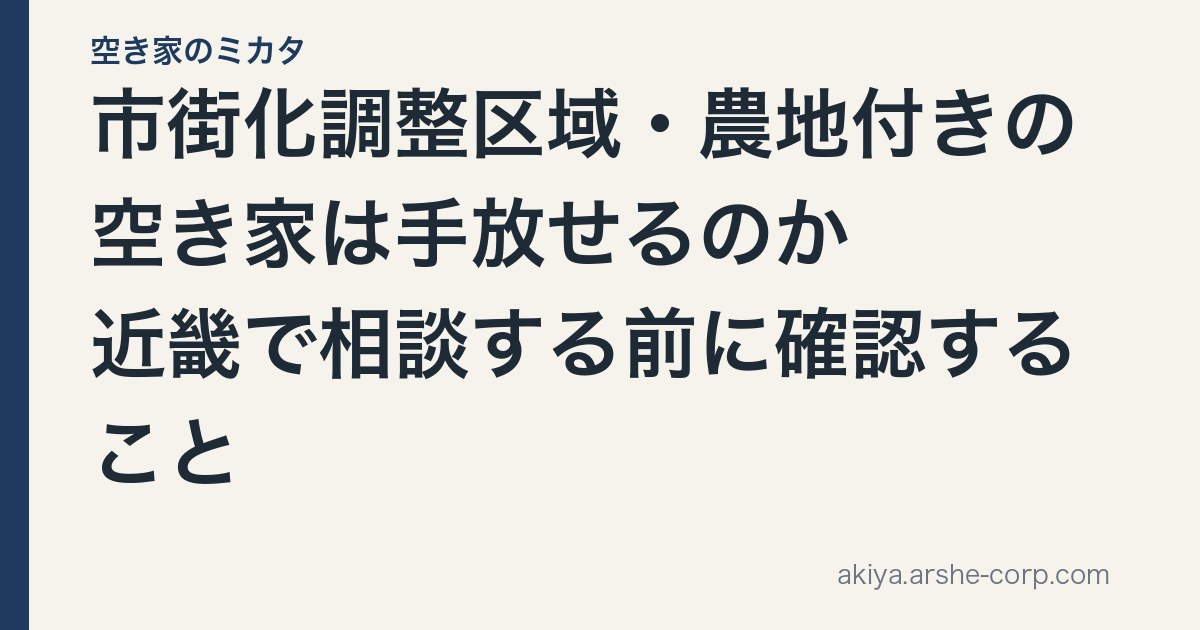
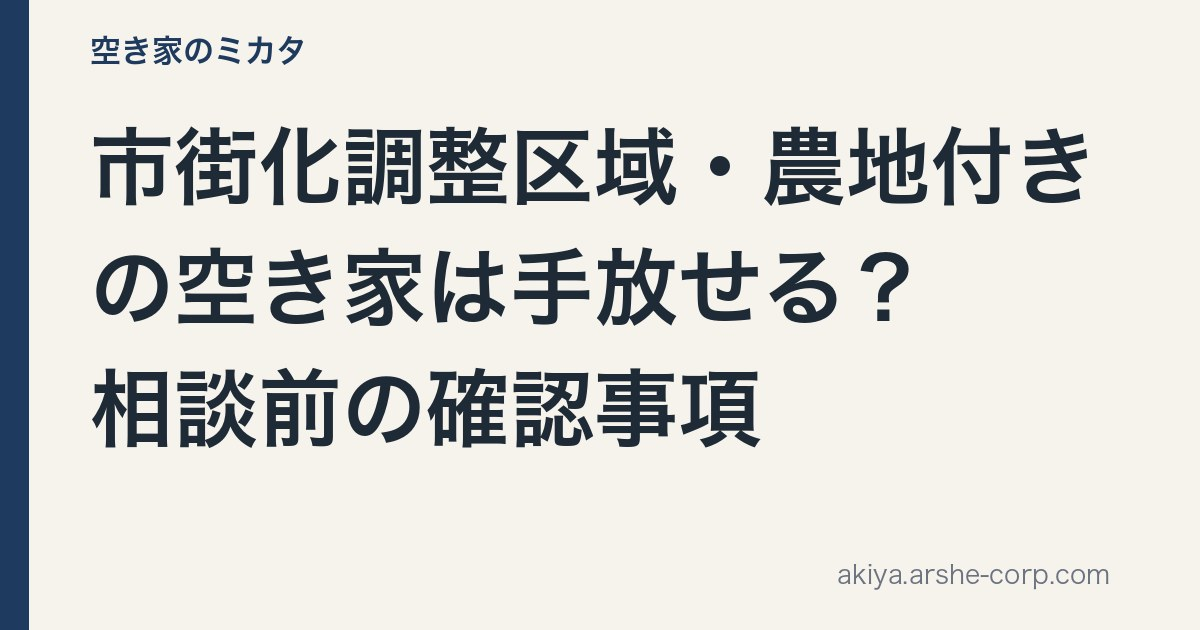
記事校閲: chosei-kuiki-nochi-tsuki-akiya-kaitori（title 31字へ短縮・hero再生成・読者レンズ反映）
- 校閲パネルの上限32字に合わせてtitleを31字へ短縮（テーマ・主語は維持）
- 短縮後のtitleでhero文字カードを作り直す
- 「都道府県知事等」を「都道府県（大阪府なら大阪府）」へ言い換え、窓口が農業委員会であることを表内に明示
- 筆・地目・農用地区域を初出のその場で言い換え、後述の用語まとめを削除
- 冒頭で結論と最初の一歩を先に出す
- 4点が不明でも相談できる旨をFAQ・本文でそろえる

Changed region(s): [[0.0617, 0.1206, 0.925, 0.7841]]

diff --git a/src/content/guide/chosei-kuiki-nochi-tsuki-akiya-kaitori.md b/src/content/guide/chosei-kuiki-nochi-tsuki-akiya-kaitori.md
@@ -1,5 +1,5 @@
 ---
-title: "市街化調整区域・農地付きの空き家は手放せるのか｜近畿で相談する前に確認すること"
+title: "市街化調整区域・農地付きの空き家は手放せる？｜相談前の確認事項"
 description: "実家の敷地に畑が付いている、市街化調整区域にある——この形の空き家は、家と農地で手続きが分かれます。市街化区域なら届出で済む農地の転用が調整区域では許可になる理由、持っているだけでかかる農業委員会の調査と届出義務、建物があるうちは国庫帰属が使えない条文上の理由、相談前に確認する項目を、大阪・和歌山など近畿6府県の宅地建物取引業者がまとめました。"
 publishDate: "2026-09-24"
 author: "空き家のミカタ編集部"
@@ -9,9 +9,9 @@ heroImage: "/images/chosei-kuiki-nochi-tsuki-akiya-kaitori-hero.jpg"
 cluster: "wakeari"
 faqs:
   - question: "市街化調整区域にある農地付きの空き家は、買い取ってもらえますか？"
-    answer: "宅地は売れる可能性が高い一方、調整区域では買い手が限られます。畑は許可しだいで、当社が買えるかは物件を確認してからお答えします。家と畑は1つの取引にまとまらず、農地部分には別の手続きが要ります。農地のまま移すなら農業委員会の許可、農地以外にするなら都道府県知事等の許可です。畑を含めて買う場合、宅地だけ買う場合、農地は別手続きの場合に分けてご案内します。"
+    answer: "調整区域の宅地は、建て替えなどに別の許可が要る場合があり、買い手が限られます。ただし買取のご相談はできます。畑は許可しだいで、当社が買えるかは物件を確認してからお答えします。家と畑は1つの取引にまとまらず、農地部分には別の手続きが要ります。農地のまま移すなら農業委員会の許可、農地以外にするなら都道府県の許可です。畑を含めて買う場合、宅地だけ買う場合、農地は別手続きの場合に分けてご案内します。"
   - question: "宅地と農地で、何がそんなに違うのですか？"
-    answer: "農地には農地法がかかります。特に差が出るのが市街化区域かどうかです。市街化区域内の農地なら、農地以外にする転用は農業委員会への事前の届出で足ります。市街化調整区域の農地にはこの例外がなく、都道府県知事等の許可が必要です。同じ「畑」でも、線引きの内か外かで届出と許可に分かれます。"
+    answer: "農地には農地法がかかります。特に差が出るのが市街化区域かどうかです。市街化区域内の農地なら、農地以外にする転用は農業委員会への事前の届出で足ります。市街化調整区域の農地にはこの例外がなく、都道府県の許可が必要です。同じ「畑」でも、線引きの内か外かで届出と許可に分かれます。"
   - question: "相続した農地を、何もせずに持っているだけでも手続きは要りますか？"
     answer: "要ります。相続などで農地の権利を取得した人は、遅滞なくその農地のある市町村の農業委員会へ届け出る義務があります。届出をしない、または虚偽の届出をした場合は10万円以下の過料です。耕していないから関係ない、という扱いにはなりません。"
   - question: "使っていない畑を放っておくと、どうなりますか？"
@@ -24,13 +24,17 @@ faqs:
 
 「実家を相続したけれど、家の横に畑が付いていた」「市街化調整区域だと言われて、仲介に断られた」「畑は誰も耕していないのに、固定資産税だけ毎年かかる」。
 
-<strong>この形の物件でいちばん多い誤解は、家と畑がひとまとめに売れると思ってしまうことです。</strong>実際には、家の敷地（宅地）と畑（農地）は別々の手続きで動きます。そして畑のほうには、宅地にはない<strong>農地法</strong>という法律がかかります。
+<strong>この形の物件でいちばん多い誤解は、家と畑がひとまとめに売れると思ってしまうことです。</strong>実際には、家の敷地（宅地）と畑（農地）は別々の手続きで動きます。そして畑のほうには、宅地にはない<strong>農地法</strong>（農地の売買や転用を制限する法律）がかかります。
 
-さらに、その畑が市街化調整区域にあるか市街化区域にあるかで、必要な手続きが<strong>「届出」と「許可」に分かれます</strong>。同じ見た目の畑でも、線引きの内と外で扱いが変わります。
+さらに、その畑が市街化調整区域にあるか市街化区域にあるかで、必要な手続きが<strong>「届出」と「許可」に分かれます</strong>。同じ見た目の畑でも、線引き（市街化区域と市街化調整区域の区分）の内と外で扱いが変わります。
 
-<strong>先に結論です。手放す方向は4つあります。</strong>農地のまま貸すか譲る、許可を得て農地以外にする、宅地と合わせて不動産として相談する、家を解体して国に引き取ってもらう、の4つです。家の敷地（宅地）は売れる可能性が高い一方、調整区域では買い手が限られることがあります。当社が買えるかは、物件を確認してからお答えします。
+<strong>先に結論です。手放す方向は4つあります。</strong>農地のまま貸すか譲る、許可を得て農地以外にする、宅地と合わせて不動産として相談する、家を解体して国に引き取ってもらう、の4つです。
 
-どの方向になるかは、畑が何筆（ふで。登記上の土地を数える単位）あるか、登記の地目（土地の種類）が何か、農用地区域に入っているか、今誰かが耕しているかで決まります。国に引き取ってもらう道は、家を解体しても審査に通らないことがあります。
+調整区域の宅地は、建て替えなどに別の許可が要る場合があり、買い手が限られます。ただし買取のご相談はできます。当社が買えるかは、物件を確認してからお答えします。
+
+どの方向になるかは、次の4点で決まります。畑が何筆（ふで。登記上の土地を数える単位）あるか、登記の地目（土地の種類）は何か、農用地区域（農業を守るために指定された区域）に入っているか、今誰かが耕しているかです。国に引き取ってもらう道は、家を解体しても審査に通らないことがあります。
+
+<strong>最初の一歩は、市町村の農業委員会（農地の窓口）か当社に、筆数・地目・耕作の状況を伝えることです。</strong>農業委員会に相談すれば、必要な許可の窓口も教えてもらえます。
 
 この記事では、市街化調整区域・農地付きの空き家について、宅地と何が違うのか、持っているだけで何が発生するのか、誰に相談すればよいのかを整理しました。条文番号は末尾の出典欄にまとめています。大阪・兵庫・京都・奈良・滋賀・和歌山の物件についてご相談をお受けしている宅地建物取引業者の立場から書いています。
 
@@ -51,14 +55,10 @@ faqs:
 | 用途を変えるとき | 原則として自由 | 農地以外にするには許可または届出 |
 | 取引の相手 | 制限は基本的にない | 農地のまま取得する側に要件がかかる |
 
-先に言葉を補足します。地目は、登記上の土地の種類です。農業委員会は、市町村にある農地の窓口です。転用は、畑を宅地や駐車場など農地以外に変えることです。都道府県知事等は、転用の許可を出す、都道府県などの長です。
-
-農用地区域は、農業を守るために特に指定された区域です。市区町村の農政担当で確認できます。
-
-許可は目的で分かれます。窓口は、どちらもまず市町村の農業委員会です。
+許可は目的で分かれます。まず市町村の農業委員会に相談すれば、必要な許可の窓口を教えてもらえます。
 
 - 畑のまま人に譲る：農業委員会の許可
-- 畑をやめて宅地などにする：都道府県知事等の許可（申請は農業委員会を通します）
+- 畑をやめて宅地や駐車場などにする（転用）：都道府県（大阪府なら大阪府）の許可。申請は農業委員会を通します
 
 畑のまま譲る場合、買う側が農業をする人でなければ、許可は下りません。つまり<strong>「畑を畑のまま、誰にでも売る」ことはできません</strong>。
 
@@ -72,12 +72,12 @@ faqs:
 
 農地法には、<strong>市街化区域内にある農地なら、あらかじめ農業委員会に届け出れば許可は要らない</strong>という例外があります。
 
-<strong>この例外は、市街化区域内の農地にしか使えません。</strong>市街化調整区域の農地は、原則どおり都道府県知事等の許可が必要です。
+<strong>この例外は、市街化区域内の農地にしか使えません。</strong>市街化調整区域の農地は、原則どおり都道府県（大阪府なら大阪府）の許可が必要です。
 
 | | 市街化区域内の農地 | 市街化調整区域の農地 |
 |---|---|---|
-| 自分の畑を転用する | 農業委員会への事前の届出 | 都道府県知事等の許可 |
-| 転用のために権利を移す | 農業委員会への事前の届出 | 都道府県知事等の許可 |
+| 自分の畑を転用する | 農業委員会への事前の届出 | 都道府県の許可（窓口は農業委員会） |
+| 転用のために権利を移す | 農業委員会への事前の届出 | 都道府県の許可（窓口は農業委員会） |
 
 届出は、要件が整っていれば受け付けられる手続きです。許可は、審査を経て可否が判断される手続きです。<strong>「市街化調整区域だから売れない」のではなく、「畑の部分に、可否の審査がある手続きが必要になる」</strong>というのが正確な言い方になります。
 
@@ -105,9 +105,11 @@ faqs:
 
 ### 勧告を受けると、税額が上がる場合があります
 
-利用意向調査の先には、<strong>農地中間管理機構（耕す人へ農地を貸し出す公的な団体）との協議の勧告</strong>があります。
+調査に答えないまま放置すると、<strong>農地中間管理機構（耕す人へ農地を貸し出す公的な団体）との協議の勧告</strong>に進むことがあります。
 
-勧告を受けると、固定資産税の農地向けの軽減が外れ、一般の土地に近い評価になることがあります。増える額は土地ごとに違います。まず今年の課税明細書で現在の税額を確認し、市区町村の税務課に見込みを聞いてください。
+勧告を受けると、固定資産税の農地向けの軽減が外れ、一般の土地に近い評価になることがあります。増える額は土地ごとに違います。
+
+調査の通知が来たら、無視せず早めに農業委員会へ相談してください。今年の課税明細書で現在の税額を確認し、市区町村の税務課に見込みを聞くのも有効です。
 
 ---
 
@@ -143,7 +145,7 @@ faqs:
 | 方向 | 畑の部分に必要なこと | 向いている状況 |
 |---|---|---|
 | 農地のまま、農業をする人へ渡す | 農業委員会の許可 | 近隣に耕してくれる人の当てがある |
-| 農地以外にして手放す | 市街化調整区域なら都道府県知事等の許可 | 転用の見込みが立つ土地である |
+| 農地以外にして手放す | 市街化調整区域なら都道府県の許可 | 転用の見込みが立つ土地である |
 | 不動産として、宅地部分と合わせて相談する | 物件ごとに、どの手続きが使えるかの確認から | 何から手を付けるか自体が決まっていない |
 | 解体して国へ引き取りを申し出る | 建物の解体が前提。審査に通らないこともある | 解体費用を出してでも手を離したい |
 
@@ -163,7 +165,7 @@ faqs:
 - 建物の解体費（国へ引き取りを申し出る場合）：所有者の方のご負担です
 - 国庫帰属の負担金（承認後）：所有者の方のご負担です。20万円で済む場合は前述のとおりです
 
-「どれが正解か」は、畑が何筆あるか、地目が何か、農用地区域に入っているか、今誰かが耕しているかで変わります。<strong>この4点がわからないうちは、どの方向も選べません。</strong>逆に言えば、この4点を確認するところから相談は始められます。
+「どれが正解か」は、畑が何筆あるか、地目が何か、農用地区域に入っているか、今誰かが耕しているかで変わります。<strong>方向を決めるのは、この4点を確認したあとです。</strong>今わからなくても構いません。確認するところから、ご一緒に始められます。
 
 ---
 
@@ -194,10 +196,10 @@ faqs:
 ## よくある質問
 
 <strong>Q. 市街化調整区域にある農地付きの空き家は、買い取ってもらえますか？</strong>
-宅地は売れる可能性が高い一方、調整区域では買い手が限られます。畑は許可しだいで、当社が買えるかは物件を確認してからお答えします。家と畑は1つの取引にまとまらず、農地部分には別の手続きが要ります。農地のまま移すなら農業委員会の許可、農地以外にするなら都道府県知事等の許可です。畑を含めて買う場合、宅地だけ買う場合、農地は別手続きの場合に分けてご案内します。
+調整区域の宅地は、建て替えなどに別の許可が要る場合があり、買い手が限られます。ただし買取のご相談はできます。畑は許可しだいで、当社が買えるかは物件を確認してからお答えします。家と畑は1つの取引にまとまらず、農地部分には別の手続きが要ります。農地のまま移すなら農業委員会の許可、農地以外にするなら都道府県の許可です。畑を含めて買う場合、宅地だけ買う場合、農地は別手続きの場合に分けてご案内します。
 
 <strong>Q. 宅地と農地で、何がそんなに違うのですか？</strong>
-農地には農地法がかかります。特に差が出るのが市街化区域かどうかです。市街化区域内の農地なら、農地以外にする転用は農業委員会への事前の届出で足ります。市街化調整区域の農地にはこの例外がなく、都道府県知事等の許可が必要です。同じ「畑」でも、線引きの内か外かで届出と許可に分かれます。
+農地には農地法がかかります。特に差が出るのが市街化区域かどうかです。市街化区域内の農地なら、農地以外にする転用は農業委員会への事前の届出で足ります。市街化調整区域の農地にはこの例外がなく、都道府県の許可が必要です。同じ「畑」でも、線引きの内か外かで届出と許可に分かれます。
 
 <strong>Q. 相続した農地を、何もせずに持っているだけでも手続きは要りますか？</strong>
 要ります。相続などで農地の権利を取得した人は、遅滞なくその農地のある市町村の農業委員会へ届け出る義務があります。届出をしない、または虚偽の届出をした場合は10万円以下の過料です。耕していないから関係ない、という扱いにはなりません。
@@ -234,7 +236,7 @@ faqs:
 
 空き家のミカタは、大阪市生野区に事務所を置く宅地建物取引業者（大阪府知事(1)第65646号）です。物件の所在地が大阪・兵庫・京都・奈良・滋賀・和歌山の不動産について、当社が買主として直接買取のご相談をお受けしています。
 
-所有者の方のお住まいは問いません。相談・査定は無料です。直接買取の可否・条件は、所在地と物件の状況を確認して判断します。農地の手続きの可否は、農業委員会・都道府県知事等の判断によります。
+所有者の方のお住まいは問いません。相談・査定は無料です。直接買取の可否・条件は、所在地と物件の状況を確認して判断します。農地の手続きの可否は、農業委員会・都道府県の判断によります。
 
 この記事は一般的な制度の説明であり、個別物件の買取・現地対応・許可の取得をお約束するものではありません。
 
